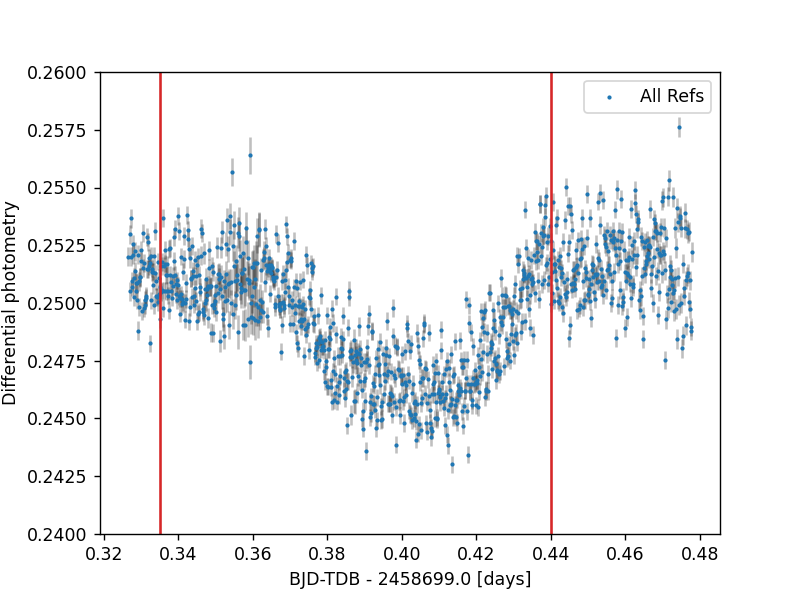
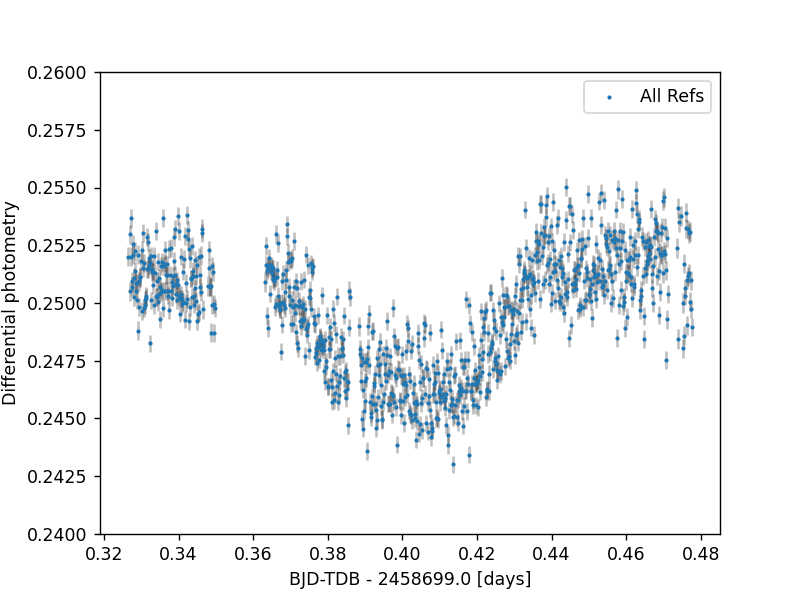
.

diff --git a/aperture_photometry.py b/aperture_photometry.py
@@ -30,7 +30,7 @@ class AperturePhotometry:
 
         # Computed in 03 - Science Analysis.ipynb
         self.science_path = self.data_path + 'science/'
-        self.science_list = np.genfromtxt(self.science_path + 'science2.list', dtype = str)
+        self.science_list = np.genfromtxt(self.science_path + 'science.list', dtype = str)
         self.science_size = len(self.science_list)
 
         # Meshgrid Definition (remember to swap x and y)
